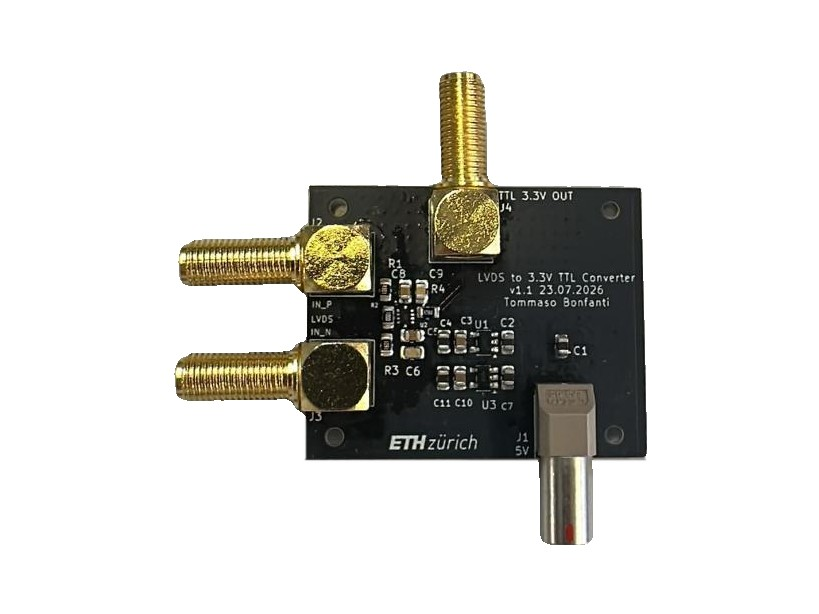
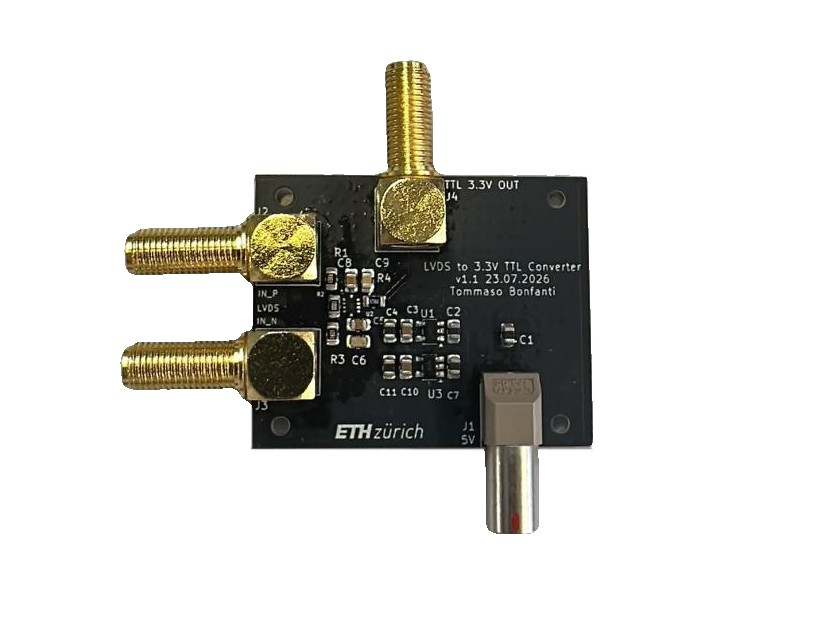
PCB photo: centre on the board itself

Changed region(s): [[0.1221, 0.0928, 0.7937, 0.8974]]

diff --git a/project-trapped-ion.html b/project-trapped-ion.html
@@ -48,7 +48,7 @@
           <figcaption>A single ion, trapped during my time in the lab.</figcaption>
         </figure>
         <figure class="slide">
-          <img src="assets/projects/trapped-ion/pcb.jpg" alt="Small black circuit board with three gold SMA connectors and a power plug, labelled LVDS to 3.3 V TTL Converter v1.1" width="819" height="614">
+          <img src="assets/projects/trapped-ion/pcb.jpg" alt="Small black circuit board with three gold SMA connectors and a power plug, labelled LVDS to 3.3 V TTL Converter v1.1" width="829" height="622">
           <figcaption>The LVDS to 3.3 V TTL converter board I designed and assembled.</figcaption>
         </figure>
       </div>
